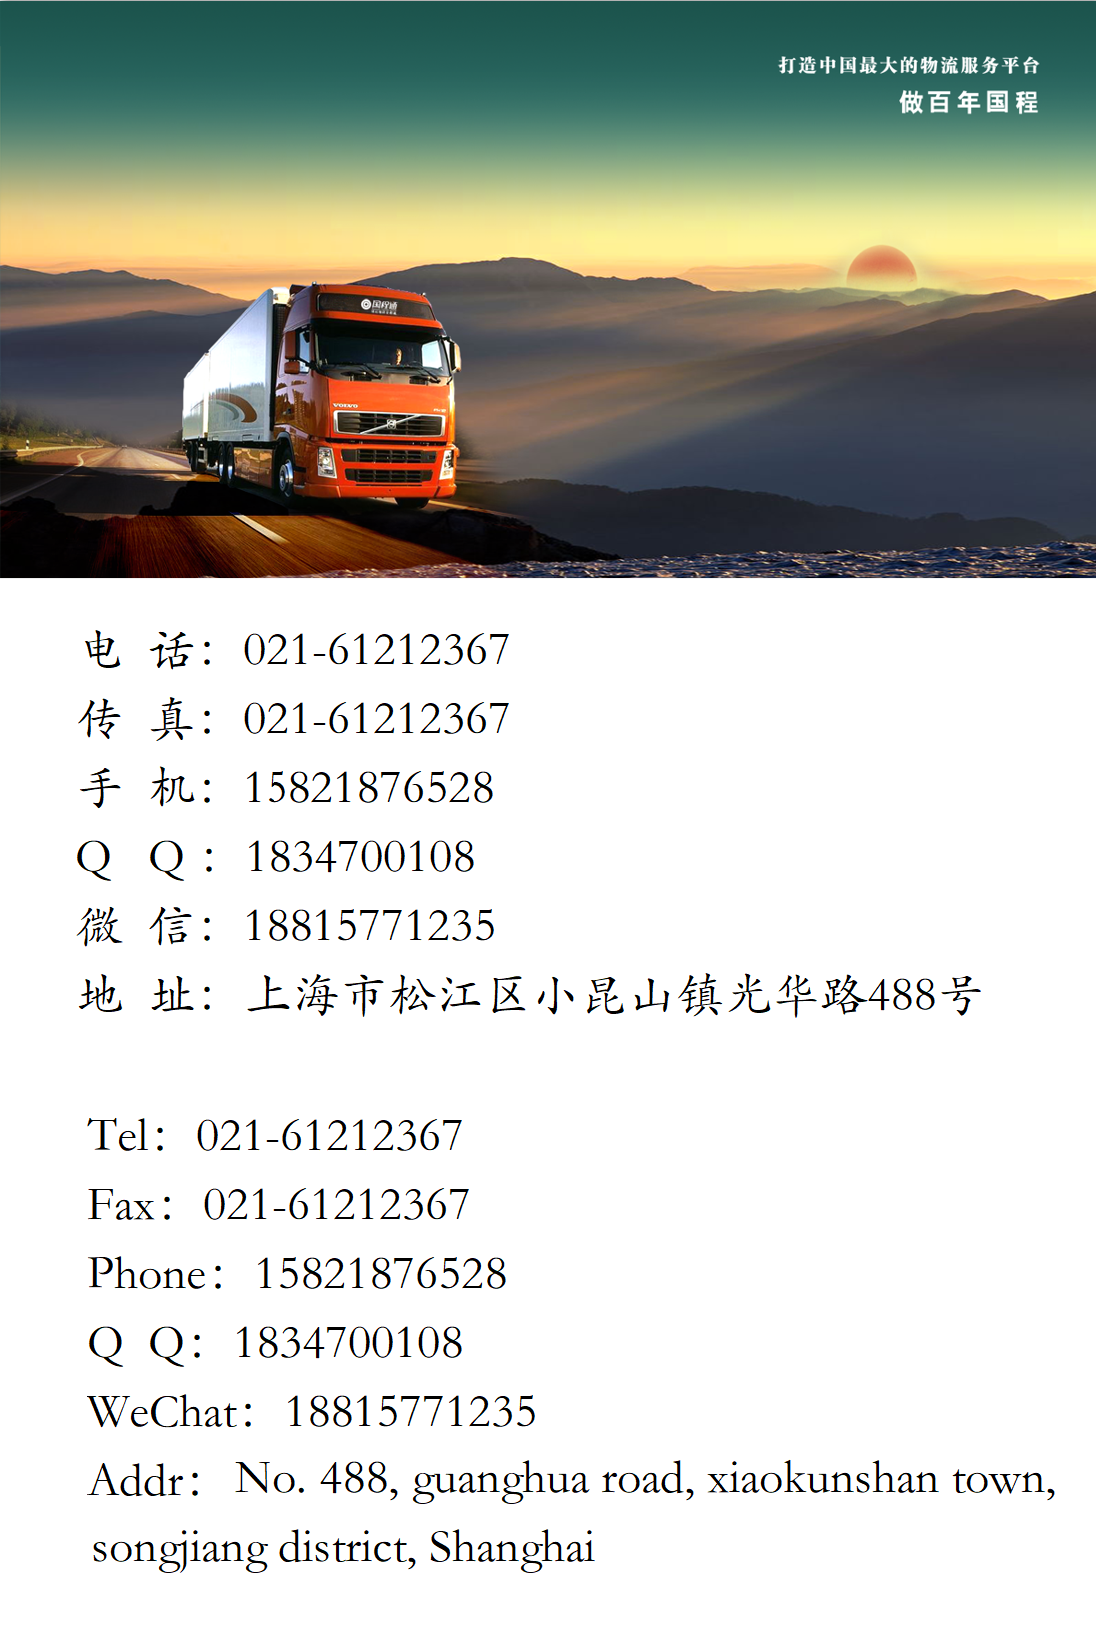
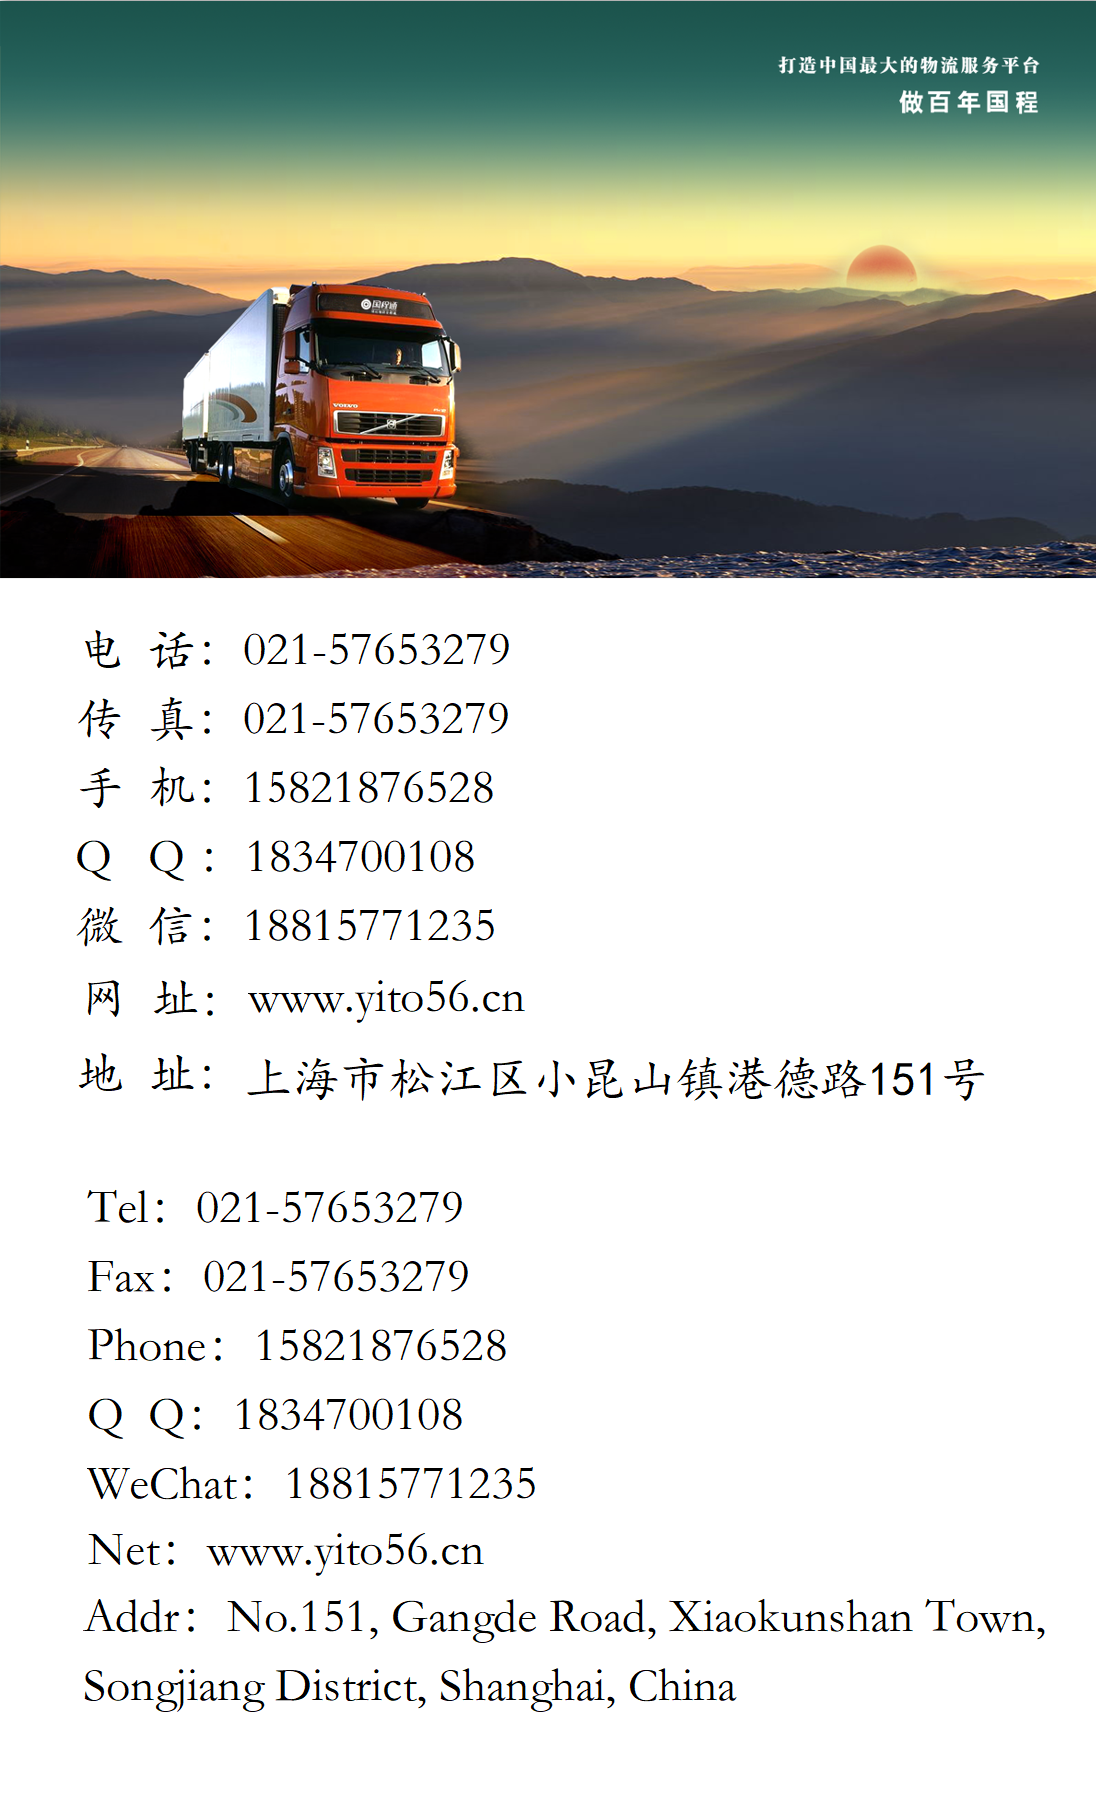
update

Changed region(s): [[0.0, 0.0312, 1.0, 0.6235], [0.062, 0.6546, 0.9617, 0.9664]]

diff --git a/logistics/src/main/webapp/index.html b/logistics/src/main/webapp/index.html
@@ -2,12 +2,12 @@
 <html lang="en">
 <head>
     <meta charset="UTF-8">
-    <meta name="viewport" content="width=device-width,initial-scale=1">
-    <title>Document</title>
-    <link rel="stylesheet" href="http://cdn.bootcss.com/bootstrap/3.3.7/css/bootstrap.min.css">
+    <!--<meta name="viewport" content="width=device-width,initial-scale=1">
+    --><title>谊托物流</title>
+   <!-- <link rel="stylesheet" href="http://cdn.bootcss.com/bootstrap/3.3.7/css/bootstrap.min.css">
     <script src="http://cdn.bootcss.com/jquery/3.3.1/jquery.min.js"></script>
     <script src="http://cdn.bootcss.com/bootstrap/3.3.7/js/bootstrap.min.js"></script>
-
+-->
     <style>
         body{
             background-color: #C7EDCC;
@@ -28,11 +28,11 @@
     </style>
 </head>
 <body>
-    <ul class="nav navbar-nav navbar-right">
+   <!-- <ul class="nav navbar-nav navbar-right">
         <li><a data-toggle="modal" data-target="#register" href=""><span class="glyphicon glyphicon-user"></span> 注册</a></li>
         <li><a data-toggle="modal" data-target="#login" href=""><span class="glyphicon glyphicon-log-in"></span> 登录</a></li>
     </ul>
-    <!-- 注册窗口 -->
+    
     <div id="register" class="modal fade" tabindex="-1">
         <div class="modal-dialog">
             <div class="modal-content">
@@ -72,7 +72,7 @@
             </div>
         </div>
     </div>
-    <!-- 登录窗口 -->
+    
     <div id="login" class="modal fade">
         <div class="modal-dialog">
             <div class="modal-content">
@@ -103,7 +103,20 @@
                 </div>
             </div>
         </div>
-    </div>
-
+    </div>-->
+	<div>
+	<p>
+		<img src="logistics.png" />
+	<p>
+	
+	
+	
+	</div>
+	
+	<div >
+		<center>
+			<a href="http://beian.miit.gov.cn/" target="_blank">沪ICP备19011864号</a>
+		</center>
+	</div>
 </body>
 </html>

diff --git a/logistics/src/main/webapp/weChat/html/companyProfile.html b/logistics/src/main/webapp/weChat/html/companyProfile.html
@@ -15,12 +15,12 @@
 <br>
 <p class="abc" ><font size="4" color="black" >
 &nbsp&nbsp&nbsp
-上海谊托物流有限公司位于国家级经济技术开发区小昆山镇光华路488号(距离G60大港高速出口500米)。本公司是一家集航空速递、零担物流、汽车运输、货物仓储服务、包装材料服务、劳务外包服务为一体的综合性物流公司
+上海谊托供应链管理有限公司位于国家级经济技术开发区小昆山镇港德路151号。本公司是一家集航空速递、零担物流、汽车运输、货物仓储服务、包装材料服务、劳务外包服务为一体的综合性物流公司
 </font>
    <br><br> 
 <p class="spread"><font size="3" color="black">
 &nbsp&nbsp&nbsp
- Shanghai yituo logistics co., LTD. Is located at no. 488 guanghua road, xiaokunshan town, national economic and technological development zone (500 meters away from G60 dagang expressway exit).The company is a collection of air Courier, logistics, car transport, goods warehousing services, packaging materials services, labor outsourcing services as one of the comprehensive logistics company
+ Shanghai Yituo Supply Chain Management Co., LTD. Is located in No. 151 Gangde Road, Xiaokunshan Town, National economic and technological development zone. The company is a set of air express, less load logistics, automobile transport, goods warehousing services, packaging materials services, labor outsourcing services as one of the comprehensive logistics company
 </font>
 
 </body>

diff --git a/logistics/src/main/webapp/weChat/html/companyPower.html b/logistics/src/main/webapp/weChat/html/companyPower.html
@@ -10,7 +10,7 @@
 <p>
 <p><br>
 <!-- <p><font size="50" color="black">
-本公司自有 4.2m、6.8m、9.6m、17.5m等不同车型货车，并拥有固定仓储面积达10000平方米
+本公司自有 4.2m、6.8m、9.6m、17.5m等不同车型货车，并拥有固定仓储面积达100000平方米
 </font> -->
 
 

diff --git a/logistics/src/main/webapp/weChat/html/companyCulture.html b/logistics/src/main/webapp/weChat/html/companyCulture.html
@@ -6,7 +6,7 @@
 </head>
 <body>
 <p>
-<img src="culture.png" width="963" height="850"/>
+<img src="culture.png" width="963" height="1500"/>
 <p>
 <!-- <p> -->
 <!-- <h1><font size="50" color="black">

diff --git a/logistics/src/main/java/com/service/impl/OrderServiceForWXImpl.java b/logistics/src/main/java/com/service/impl/OrderServiceForWXImpl.java
@@ -5,6 +5,7 @@ import java.util.Map;
 
 import org.apache.log4j.Logger;
 import org.springframework.beans.factory.annotation.Autowired;
+import org.springframework.stereotype.Service;
 
 import com.dao.OrderDao;
 import com.entity.AccessToken;
@@ -25,6 +26,7 @@ import com.util.JsonUtil;
  * @author 作者 Guo Jun
  * @version 创建时间：2019年1月16日 下午10:13:07 类说明
  */
+@Service
 public class OrderServiceForWXImpl implements OrderServiceForWX {
 
 	@Autowired
@@ -35,21 +37,20 @@ public class OrderServiceForWXImpl implements OrderServiceForWX {
 	private AccessToken token;
 	private final String GET_TOKEN_URL = "https://api.weixin.qq.com/cgi-bin/token?grant_type=client_credential&appid=APPID&secret=APPSECRET";
 	private final String GET_SUBSCRIBE_USER_INFO_URL = "https://api.weixin.qq.com/cgi-bin/user/info?access_token=ACCESS_TOKEN&openid=OPENID&lang=zh_CN";
-//	private final String APPID = "wx3f621fe647638b65";//测试号appid
-//	private final String APPSECRET = "a18b782008d0382f7b3007cf8673ecda";//测试号
+//	private final String APPID = "wx6ea1a7bb7a45b284";//测试号appid
+//	private final String APPSECRET = "1596e97893d63e37fd6ed948bd7528e2";//测试号
 
-//	private final String APPID = "wxbd2e45099d24cc5d";// 谊托APPID
-//	private final String APPSECRET = "e010d92c6ee9bc76e9abf9bc3ef44664";//谊托appSecret
+	private final String APPID = "wxbd2e45099d24cc5d";// 谊托APPID
+	private final String APPSECRET = "e010d92c6ee9bc76e9abf9bc3ef44664";// 谊托appSecret
 
 //	private final String APPID = "wxe4f8598001c88631";// 快硕
 //	private final String APPSECRET = "9edf600666dd734f345b36f14195cb41";// 快硕
-	
-	private final String APPID = "wx9388165393231417";// 磊硕
-	private final String APPSECRET = "1e79966c7f70f6f263f3d8dfb6598e61";// 磊硕
+
+//	private final String APPID = "wx9388165393231417";// 磊硕
+//	private final String APPSECRET = "1e79966c7f70f6f263f3d8dfb6598e61";// 磊硕
 
 	@Override
 	public String queryOrderRecords(String orderId) {
-		// TODO Auto-generated method stub
 		StringBuilder retVal = new StringBuilder();
 		OrderModel order = null;
 		List<ShippingRecordModel> records = null;
@@ -59,8 +60,9 @@ public class OrderServiceForWXImpl implements OrderServiceForWX {
 			order = orderDao.getOrderByOrderId(orderId);
 			if (order != null) {
 				// 订单信息存入R
-				logger.debug("get order info success.order id:" + order.getOrderId());
+				logger.info("get order info success.order id:" + order.getOrderId());
 
+//				logger.info(logger.getName());
 				// 查询路由记录信息
 				records = orderDao.getRecordsById(orderId);
 				order.setRecords(records);
@@ -69,18 +71,23 @@ public class OrderServiceForWXImpl implements OrderServiceForWX {
 				retVal.append(order.toString());
 
 			} else {
-				retVal.append("抱歉，无您所查订单信息，请回复正确的订单编号");
+				retVal.append("抱歉，无您所查订单信息，请确认订单编号");
 			}
 
 		} catch (Exception e) {
 			logger.info("数据库处理错误查询" + e);
-			retVal.append("抱歉，无您所查订单信息，请回复正确的订单编号");
+			retVal.append("抱歉，无您所查订单信息，请确认订单编号");
 		}
 
 		logger.info("response msg:" + retVal.toString());
 		return retVal.toString();
 	}
 
+	/**
+	 * 保存关注者信息
+	 * 
+	 * @param requestMap
+	 */
 	public void saveSubscribeUserInfo(Map<String, String> requestMap) {
 		String openId = requestMap.get("FromUserName");
 		String url = this.GET_SUBSCRIBE_USER_INFO_URL.replace("ACCESS_TOKEN", geToken().getToken()).replace("OPENID",
@@ -100,6 +107,11 @@ public class OrderServiceForWXImpl implements OrderServiceForWX {
 		}
 	}
 
+	/**
+	 * 取消关注，更改状态
+	 * 
+	 * @param requestMap
+	 */
 	public void unSubscribe(Map<String, String> requestMap) {
 		try {
 			String openId = requestMap.get("FromUserName");
@@ -107,7 +119,6 @@ public class OrderServiceForWXImpl implements OrderServiceForWX {
 		} catch (Exception e) {
 			logger.info("更新订阅用户状态为取消关注失败" + e);
 		}
-
 	}
 
 	@Override
@@ -120,8 +131,10 @@ public class OrderServiceForWXImpl implements OrderServiceForWX {
 
 	private void getTokenInfo() {
 		String url = GET_TOKEN_URL.replace("APPID", APPID).replace("APPSECRET", APPSECRET);
+		System.out.println(url);
 		String response = HttpUtils.httpGet(url, "");
-		System.out.println("response=" + response);
+		System.out.println(response);
+		logger.info("response=" + response);
 		JsonObject jsonObject = new JsonParser().parse(response).getAsJsonObject();
 		String tokenStr = JsonUtil.getJsonString(jsonObject, "access_token");
 		String expireIn = JsonUtil.getJsonString(jsonObject, "expires_in");
@@ -155,20 +168,19 @@ public class OrderServiceForWXImpl implements OrderServiceForWX {
 		// 第二个一级菜单及对应的二级菜单
 		SubButton sbtn3 = new SubButton("关于我们");
 		sbtn3.getSub_button()
-				.add(new ViewButton("公司简介", "http://rgpeab.natappfree.cc/logistics/ks/html/companyProfile.html"));
+				.add(new ViewButton("公司简介", "http://www.yito56.cn/logistics/weChat/html/companyProfile.html"));
 		sbtn3.getSub_button()
 				.add(new ViewButton("企业文化", "http://www.yito56.cn/logistics/weChat/html/companyCulture.html"));
 		sbtn3.getSub_button()
 				.add(new ViewButton("实力展示", "http://www.yito56.cn/logistics/weChat/html/companyPower.html"));
-//		sbtn3.getSub_button().add(new ViewButton("部分客户", "http://www.aimi.fun/logistics/weChat/html/contact.html"));
 		sbtn3.getSub_button().add(new ViewButton("联系我们", "http://www.yito56.cn/logistics/weChat/html/contact.html"));
 		btn.getButton().add(sbtn3);
 
 		String json = JsonUtil.convertObject2Json(btn);
-		System.out.println(json);
+		logger.info(json);
 
 		String response = HttpUtils.postJson(url + token.getToken(), json);
-		System.out.println(response);
+		logger.info(response);
 	}
 
 	public static void setKSButton() {
@@ -196,23 +208,20 @@ public class OrderServiceForWXImpl implements OrderServiceForWX {
 
 		// 第二个一级菜单及对应的二级菜单
 		SubButton sbtn3 = new SubButton("关于我们");
-		sbtn3.getSub_button()
-				.add(new ViewButton("公司简介", "http://www.aimi.fun/logistics/ks/html/companyProfile.html"));
-		sbtn3.getSub_button()
-				.add(new ViewButton("企业文化", "http://www.aimi.fun/logistics/ks/html/companyCulture.html"));
-		sbtn3.getSub_button()
-				.add(new ViewButton("实力展示", "http://www.aimi.fun/logistics/ks/html/companyPower.html"));
+		sbtn3.getSub_button().add(new ViewButton("公司简介", "http://www.aimi.fun/logistics/ks/html/companyProfile.html"));
+		sbtn3.getSub_button().add(new ViewButton("企业文化", "http://www.aimi.fun/logistics/ks/html/companyCulture.html"));
+		sbtn3.getSub_button().add(new ViewButton("实力展示", "http://www.aimi.fun/logistics/ks/html/companyPower.html"));
 //		sbtn3.getSub_button().add(new ViewButton("部分客户", "http://www.aimi.fun/logistics/weChat/html/contact.html"));
 		sbtn3.getSub_button().add(new ViewButton("联系我们", "http://www.aimi.fun/logistics/ks/html/contact.html"));
 		btn.getButton().add(sbtn3);
 
 		String json = JsonUtil.convertObject2Json(btn);
-		System.out.println(json);
+		logger.info(json);
 
 		String response = HttpUtils.postJson(url + token.getToken(), json);
-		System.out.println(response);
+		logger.info(response);
 	}
-	
+
 	/**
 	 * 磊硕
 	 */
@@ -249,10 +258,10 @@ public class OrderServiceForWXImpl implements OrderServiceForWX {
 		btn.getButton().add(sbtn3);
 
 		String json = JsonUtil.convertObject2Json(btn);
-		System.out.println(json);
+		logger.info(json);
 
 		String response = HttpUtils.postJson(url + token.getToken(), json);
-		System.out.println(response);
+		logger.info(response);
 	}
 
 	@Override
@@ -262,8 +271,9 @@ public class OrderServiceForWXImpl implements OrderServiceForWX {
 
 	public static void main(String[] args) {
 //		setKSButton();
-		setLSButton();
-		
+//		setLSButton();
+		setYITO56Button();
+
 //		new OrderServiceForWXImpl().saveSubscribeUserInfo(requestMap);
 //		String testStr = "subscribe\r\n" + 
 //				"openId\r\n" + 
@@ -282,7 +292,7 @@ public class OrderServiceForWXImpl implements OrderServiceForWX {
 //				"subscribeScene\r\n" + 
 //				"qrScene\r\n" + 
 //				"qrSceneStr";
-//		System.out.println(testStr.toUpperCase());
+//		logger.info(testStr.toUpperCase());
 
 	}
 

diff --git a/logistics/src/main/java/com/util/DateUtils.java b/logistics/src/main/java/com/util/DateUtils.java
@@ -222,17 +222,17 @@ public class DateUtils {
 		Date startTime = DateUtils.parshDateTimeFormat("2018-09-13 12:50:00");
 		Date endTime = DateUtils.parshDateTimeFormat("2018-07-01 19:20:20");
 
-//		System.out.println(inDateRange(startDate, endDate, "yyyy-MM-dd"));
-		System.out.println(isReadyToStart(startDate, startTime, endDate, endTime, 5));
+//		logger.info(inDateRange(startDate, endDate, "yyyy-MM-dd"));
+		logger.info(isReadyToStart(startDate, startTime, endDate, endTime, 5));
 
 		/*
 		 * if (isReadyToStart(startDate, startTime, endDate, endTime, 5)) {
 		 * System.out.println("pass!"); } else { System.out.println("false"); }
 		 */
-//		System.out.println(DateUtils.compairWithDate(d));
-//		System.out.println(DateUtils.compairWithTime(d1));
+//		logger.info(DateUtils.compairWithDate(d));
+//		logger.info(DateUtils.compairWithTime(d1));
 //		
-//		System.out.println("现在的日期大："+nowBigger(d));
+//		logger.info("现在的日期大："+nowBigger(d));
 
 	}
 

diff --git a/logistics/src/main/java/com/util/ResponseUtils.java b/logistics/src/main/java/com/util/ResponseUtils.java
@@ -122,7 +122,7 @@ public class ResponseUtils {
 
 		case "subscribe":
 			orderServiceForWXImpl.saveSubscribeUserInfo(requestMap);
-			return new TextMessage(requestMap, "您好,欢迎关注磊硕物流！直接回复单号查询物流信息。");
+			return new TextMessage(requestMap, "您好,欢迎关注谊托物流！直接回复单号查询物流信息。");
 		case "unsubscribe":
 			orderServiceForWXImpl.unSubscribe(requestMap);
 			return new TextMessage(requestMap, "");

diff --git a/logistics/src/main/java/com/controller/OrderController.java b/logistics/src/main/java/com/controller/OrderController.java
@@ -240,7 +240,7 @@ public class OrderController {
 		request.setCharacterEncoding("UTF-8");
 		response.setCharacterEncoding("UTF-8");
 		Map<String, String> requestMap = PraseRequestUtil.praseReqest(request.getInputStream());
-		System.out.println(requestMap);
+		logger.info(requestMap);
 		
 		String xmlStr = ResponseUtils.getResponse(requestMap, orderServiceForWXImpl);
 		logger.info("xmlStr:"+xmlStr);

diff --git a/logistics/src/main/java/com/service/impl/UserServiceImpl.java b/logistics/src/main/java/com/service/impl/UserServiceImpl.java
@@ -40,7 +40,7 @@ public class UserServiceImpl implements UserService{
 			String dbPwd = userDao.getPwdByName(userName);
 			return pwd.equals(dbPwd)? true:false;
 		} catch (Exception e) {
-			logger.info("查询数据库出错");
+			logger.info("查询数据库出错", e);
 			return false;
 		}
 	}

diff --git a/logistics/src/main/java/com/util/PropertiesUtil.java b/logistics/src/main/java/com/util/PropertiesUtil.java
@@ -76,6 +76,6 @@ public final class PropertiesUtil {
 //		String path = "D:\\GitHub\\myProject\\logistics\\src\\main\\resources\\conf";
 //		PropertiesUtil.PROP_PATH = path;
 		String auth_url = PropertiesUtil.getValues("auth.url");
-		System.out.println(auth_url);
+		logger.info(auth_url);
 	}
 }

diff --git a/logistics/src/main/java/com/util/HttpUtils.java b/logistics/src/main/java/com/util/HttpUtils.java
@@ -173,7 +173,7 @@ public class HttpUtils {
 
 		String re = HttpUtils.post("http://localhost:8080/bid-web/consumer/receive", params);
 
-		System.out.println(re);
+		logger.info(re);
 	}
 
 }
